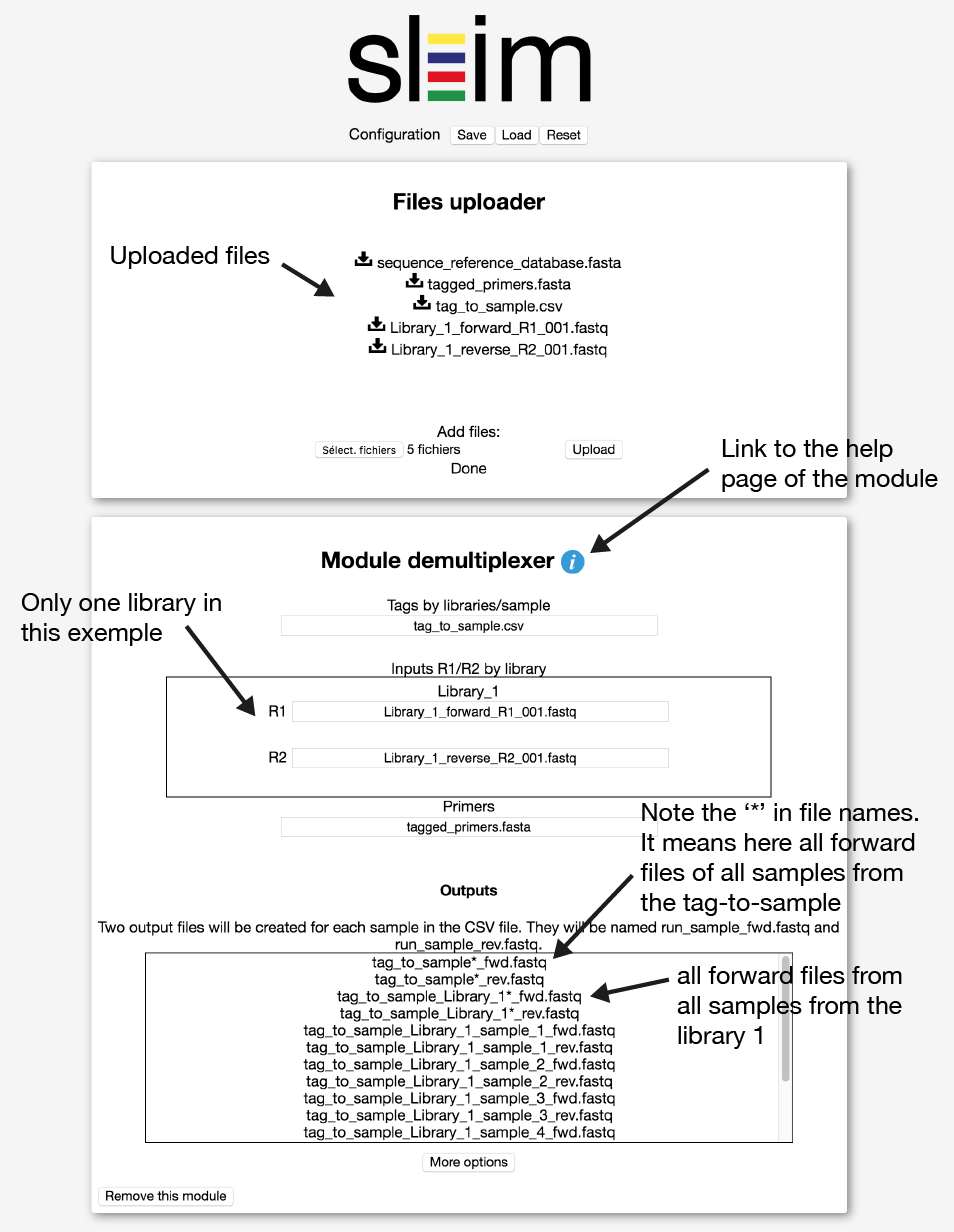
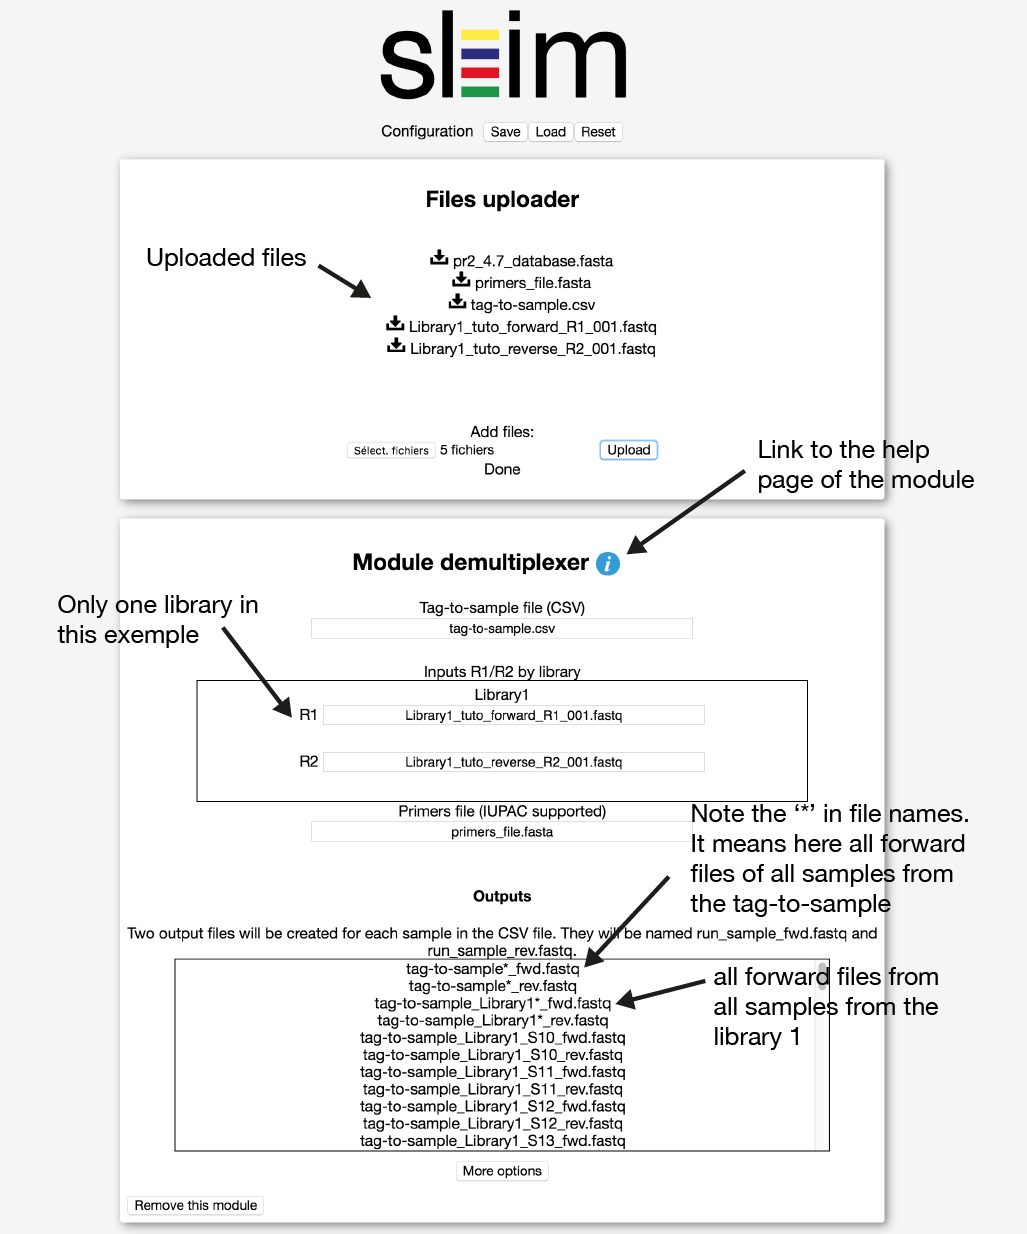
typos fix and tuto images  1/2

diff --git a/www/modules/otu-vsearch.html b/www/modules/otu-vsearch.html
@@ -22,5 +22,5 @@
 </span>
 
 <div class="options">
-	<p>Sequence similarity: <input type="text" name="similarity" class="integer number param_value" value="0.97"></p>
+	<p>Sequence similarity threshold: <input type="text" name="similarity" class="integer number param_value" value="0.97"></p>
 </div>
